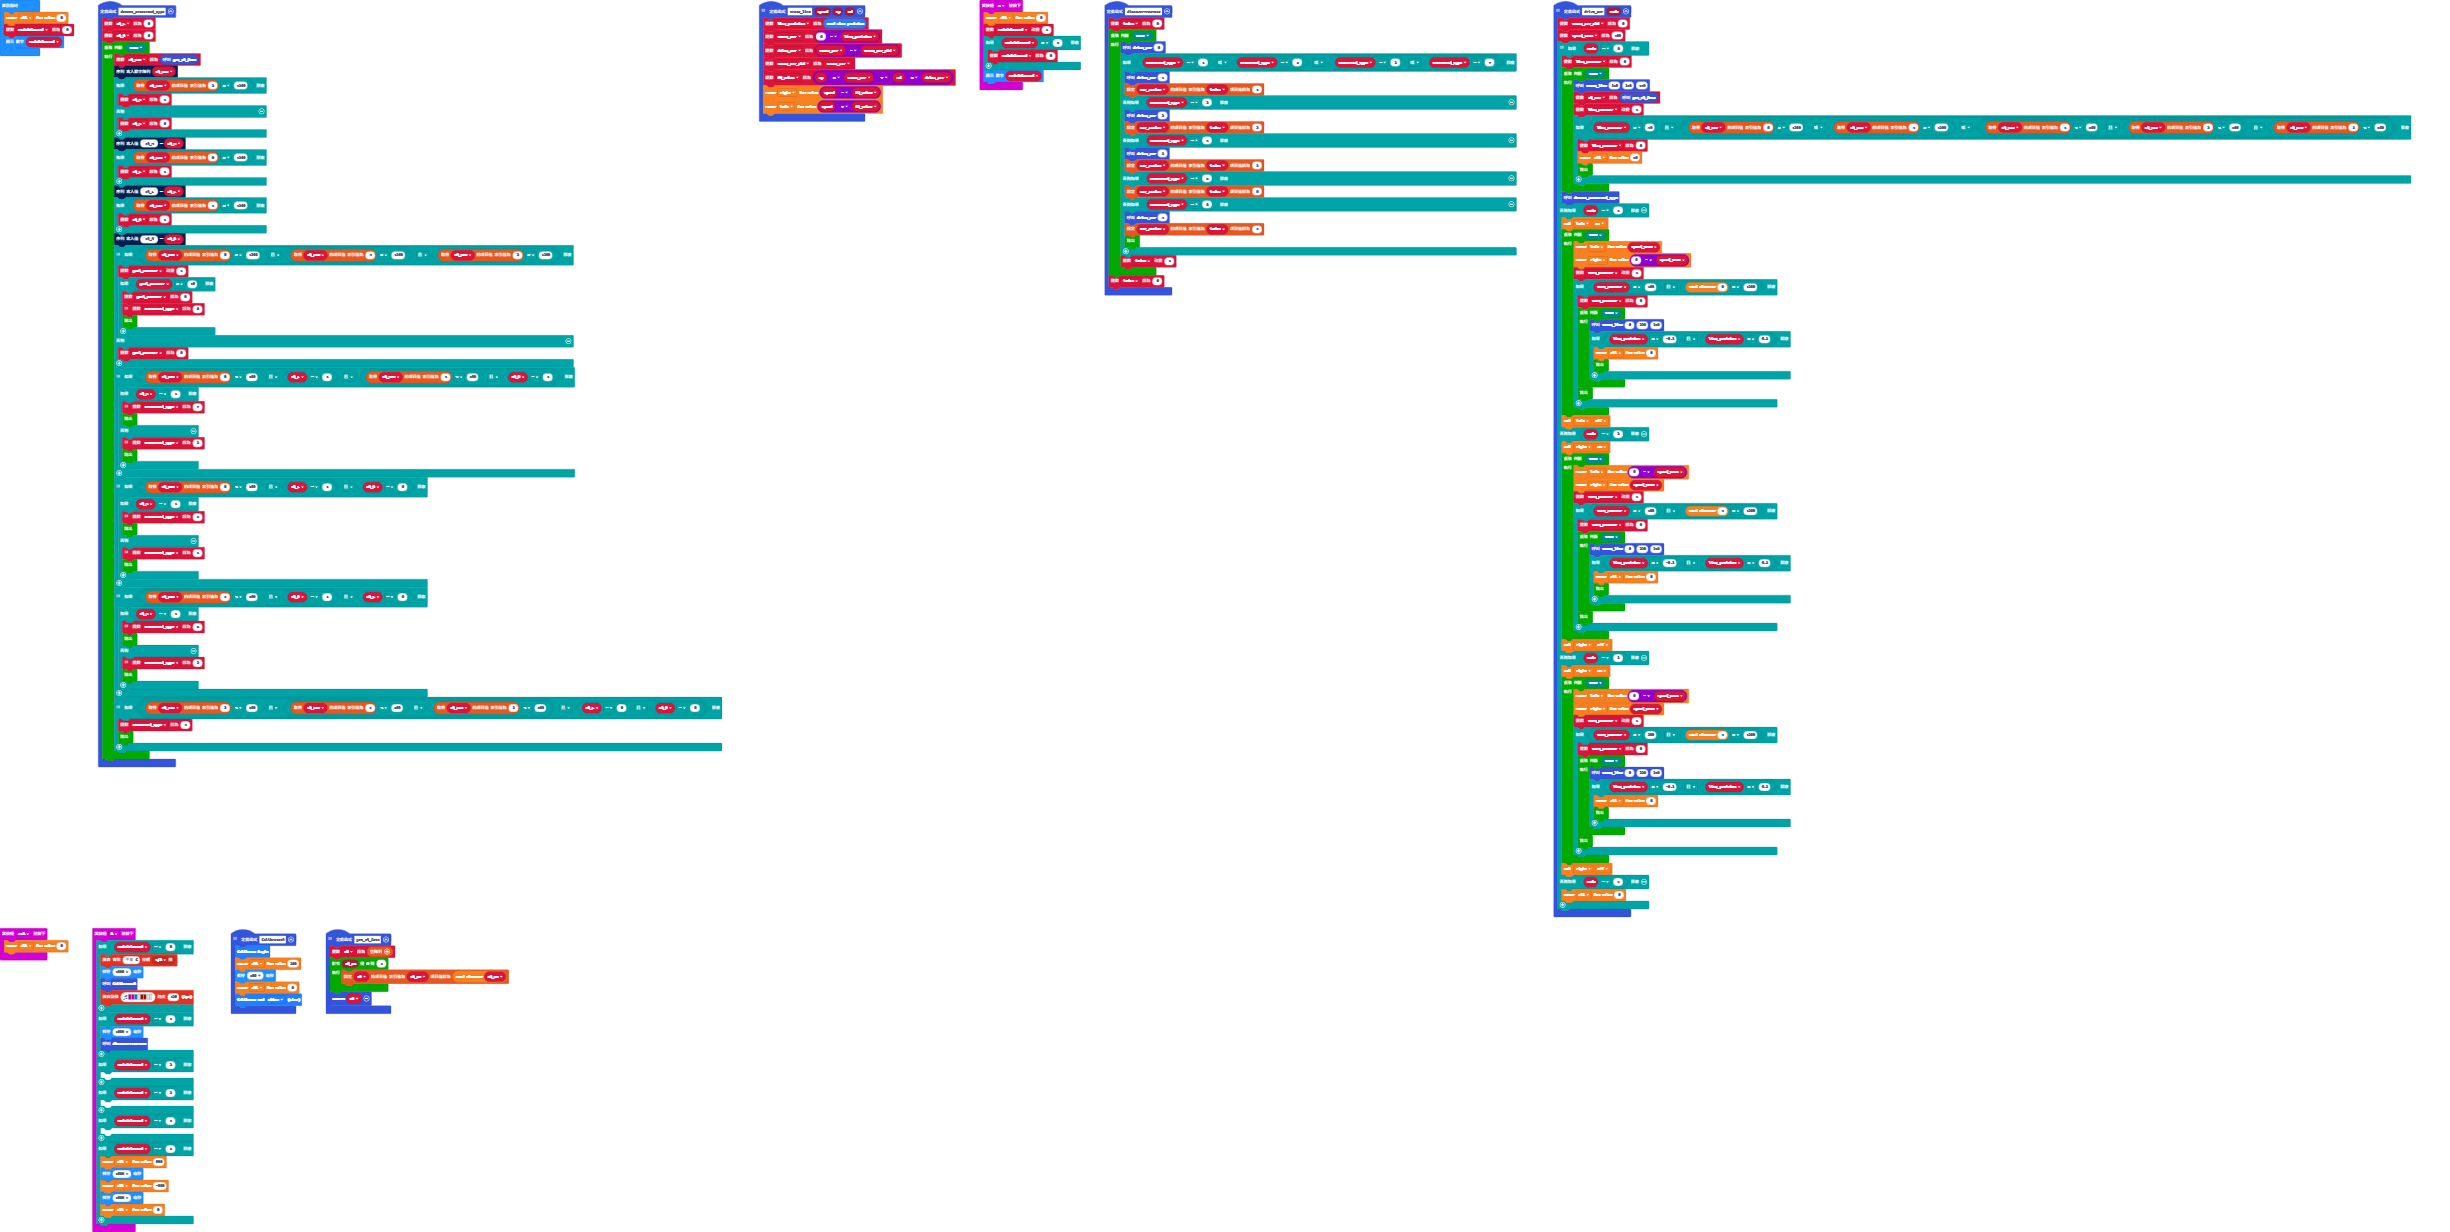
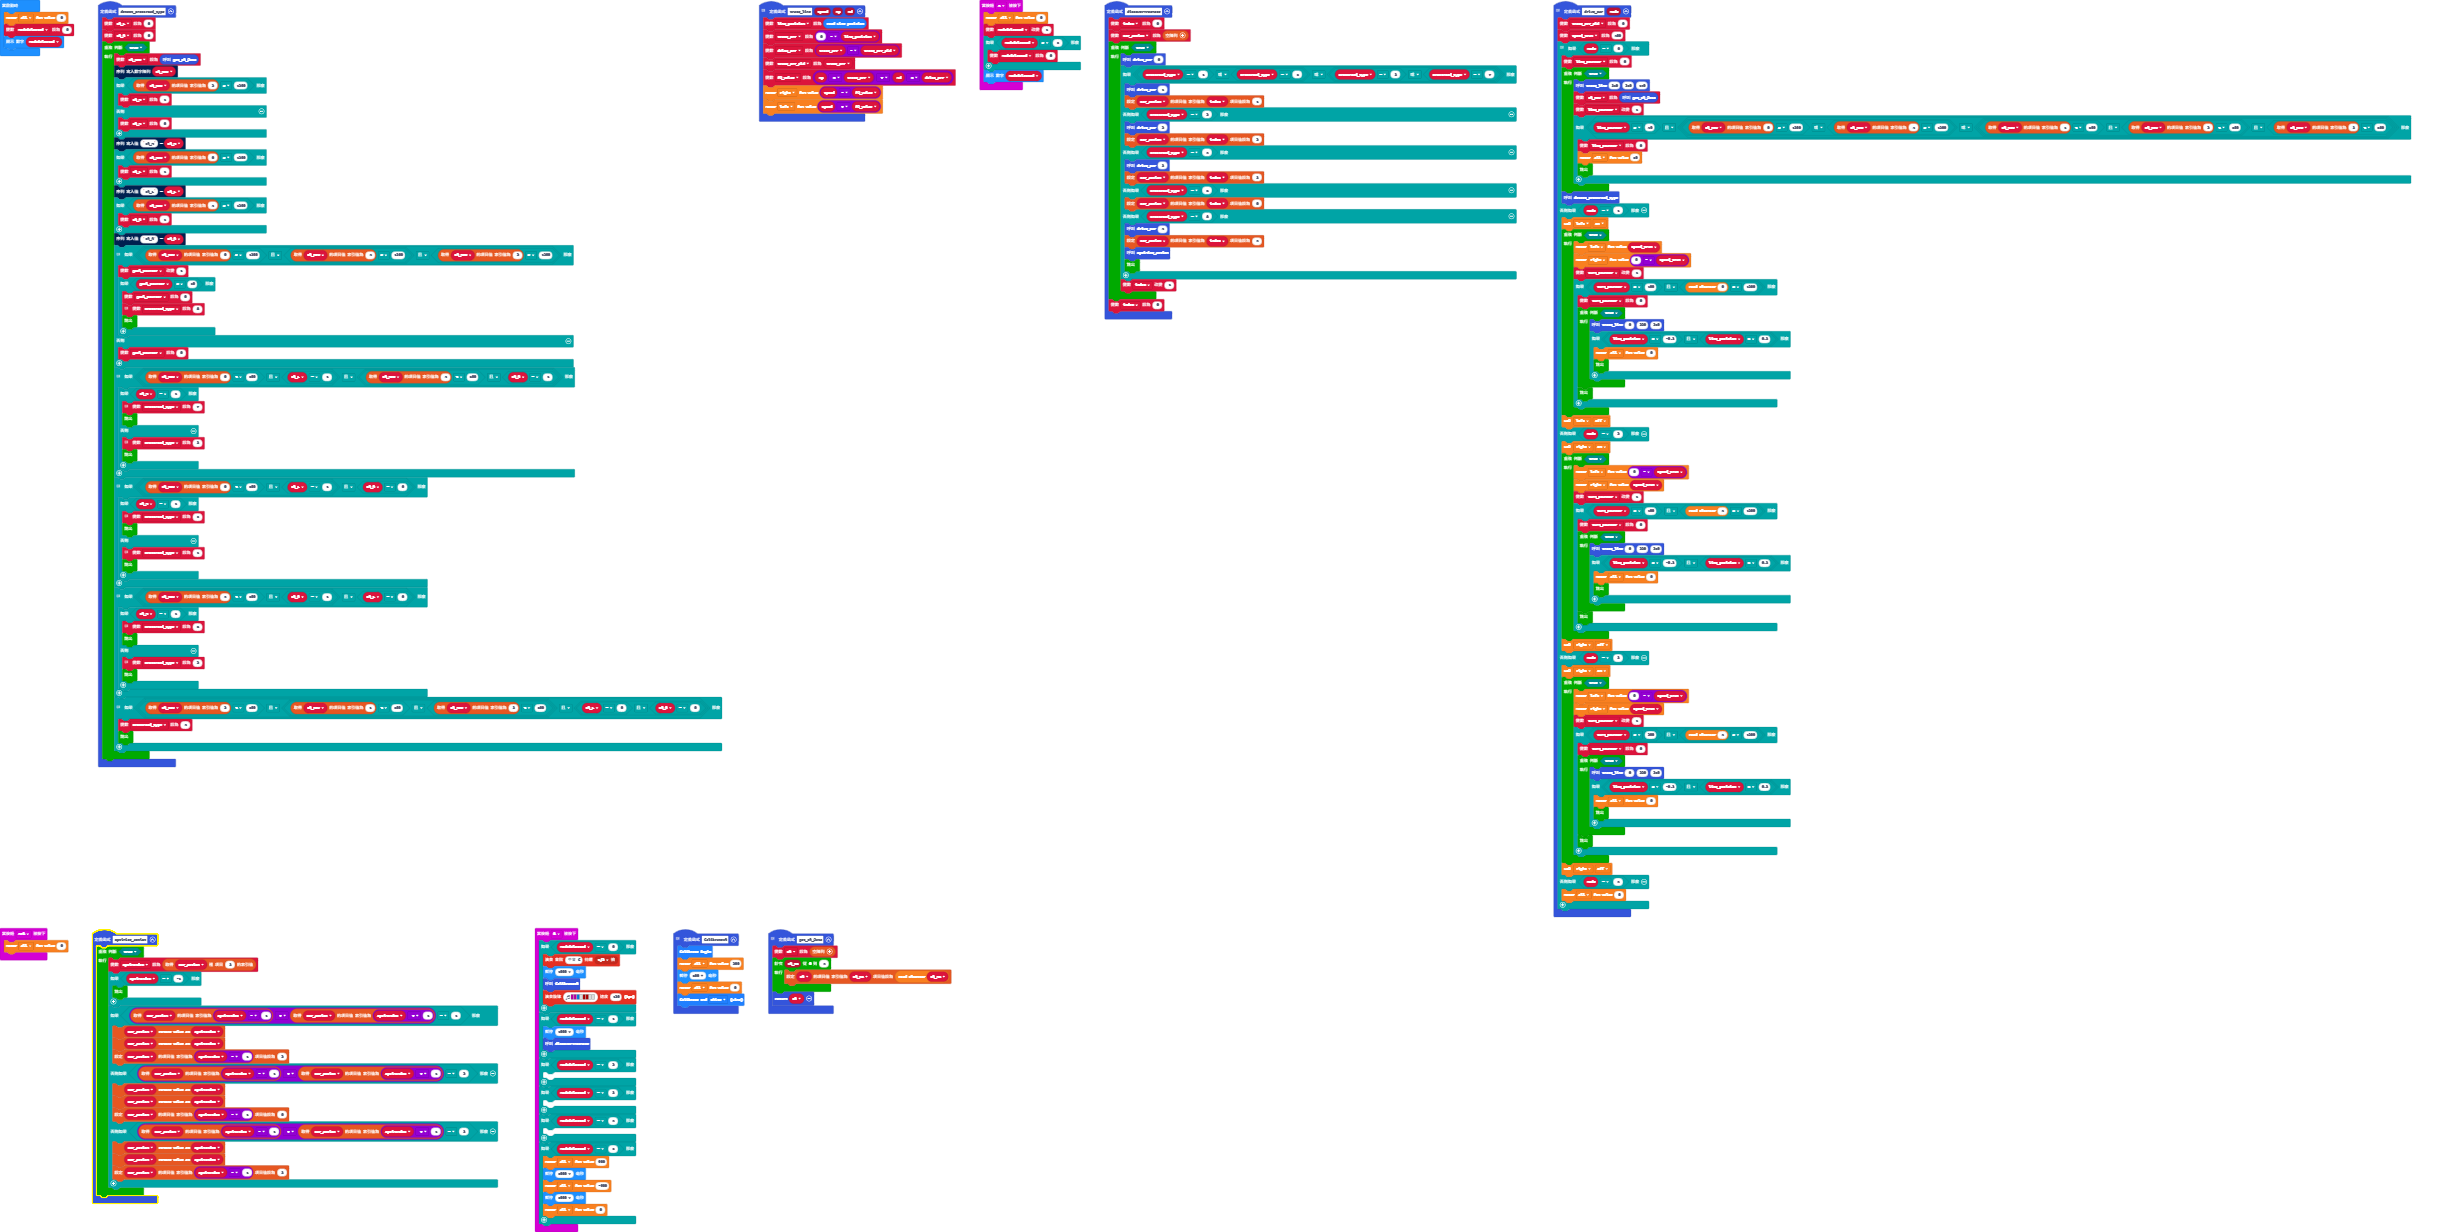
增加optimize_action，做路徑最佳化

Changed region(s): [[0.031, 0.7403, 0.4033, 1.0], [0.4343, 0.0, 0.6204, 0.2776]]

diff --git a/main.ts b/main.ts
@@ -94,8 +94,8 @@ input.onButtonPressed(Button.A, function () {
 })
 function discoverTreeMaze () {
     index = 0
+    car_action = []
     while (true) {
-        let car_action: number[] = []
         drive_car(0)
         if (crossroad_type == 1 || crossroad_type == 5 || (crossroad_type == 3 || crossroad_type == 7)) {
             drive_car(1)
@@ -111,6 +111,7 @@ function discoverTreeMaze () {
         } else if (crossroad_type == 8) {
             drive_car(4)
             car_action[index] = 4
+            optimize_action()
             break;
         }
         index += 1
@@ -197,6 +198,27 @@ function drive_car (Mode: number) {
         BitRacer.motorRun(BitRacer.Motors.All, 0)
     }
 }
+function optimize_action () {
+    while (true) {
+        optimIndex = car_action.indexOf(3)
+        if (optimIndex == -1) {
+            break;
+        }
+        if (car_action[optimIndex - 1] + car_action[optimIndex + 1] == 1) {
+            car_action.removeAt(optimIndex)
+            car_action.removeAt(optimIndex)
+            car_action[optimIndex - 1] = 2
+        } else if (car_action[optimIndex - 1] + car_action[optimIndex + 1] == 2) {
+            car_action.removeAt(optimIndex)
+            car_action.removeAt(optimIndex)
+            car_action[optimIndex - 1] = 0
+        } else if (car_action[optimIndex - 1] + car_action[optimIndex + 1] == 3) {
+            car_action.removeAt(optimIndex)
+            car_action.removeAt(optimIndex)
+            car_action[optimIndex - 1] = 3
+        }
+    }
+}
 input.onButtonPressed(Button.AB, function () {
     BitRacer.motorRun(BitRacer.Motors.All, 0)
 })
@@ -245,9 +267,11 @@ function get_IR_Data () {
     return IR
 }
 let IR: number[] = []
+let optimIndex = 0
 let turn_counter = 0
 let line_counter = 0
 let speed_trun = 0
+let car_action: number[] = []
 let index = 0
 let PD_Value = 0
 let trace_err_old = 0
